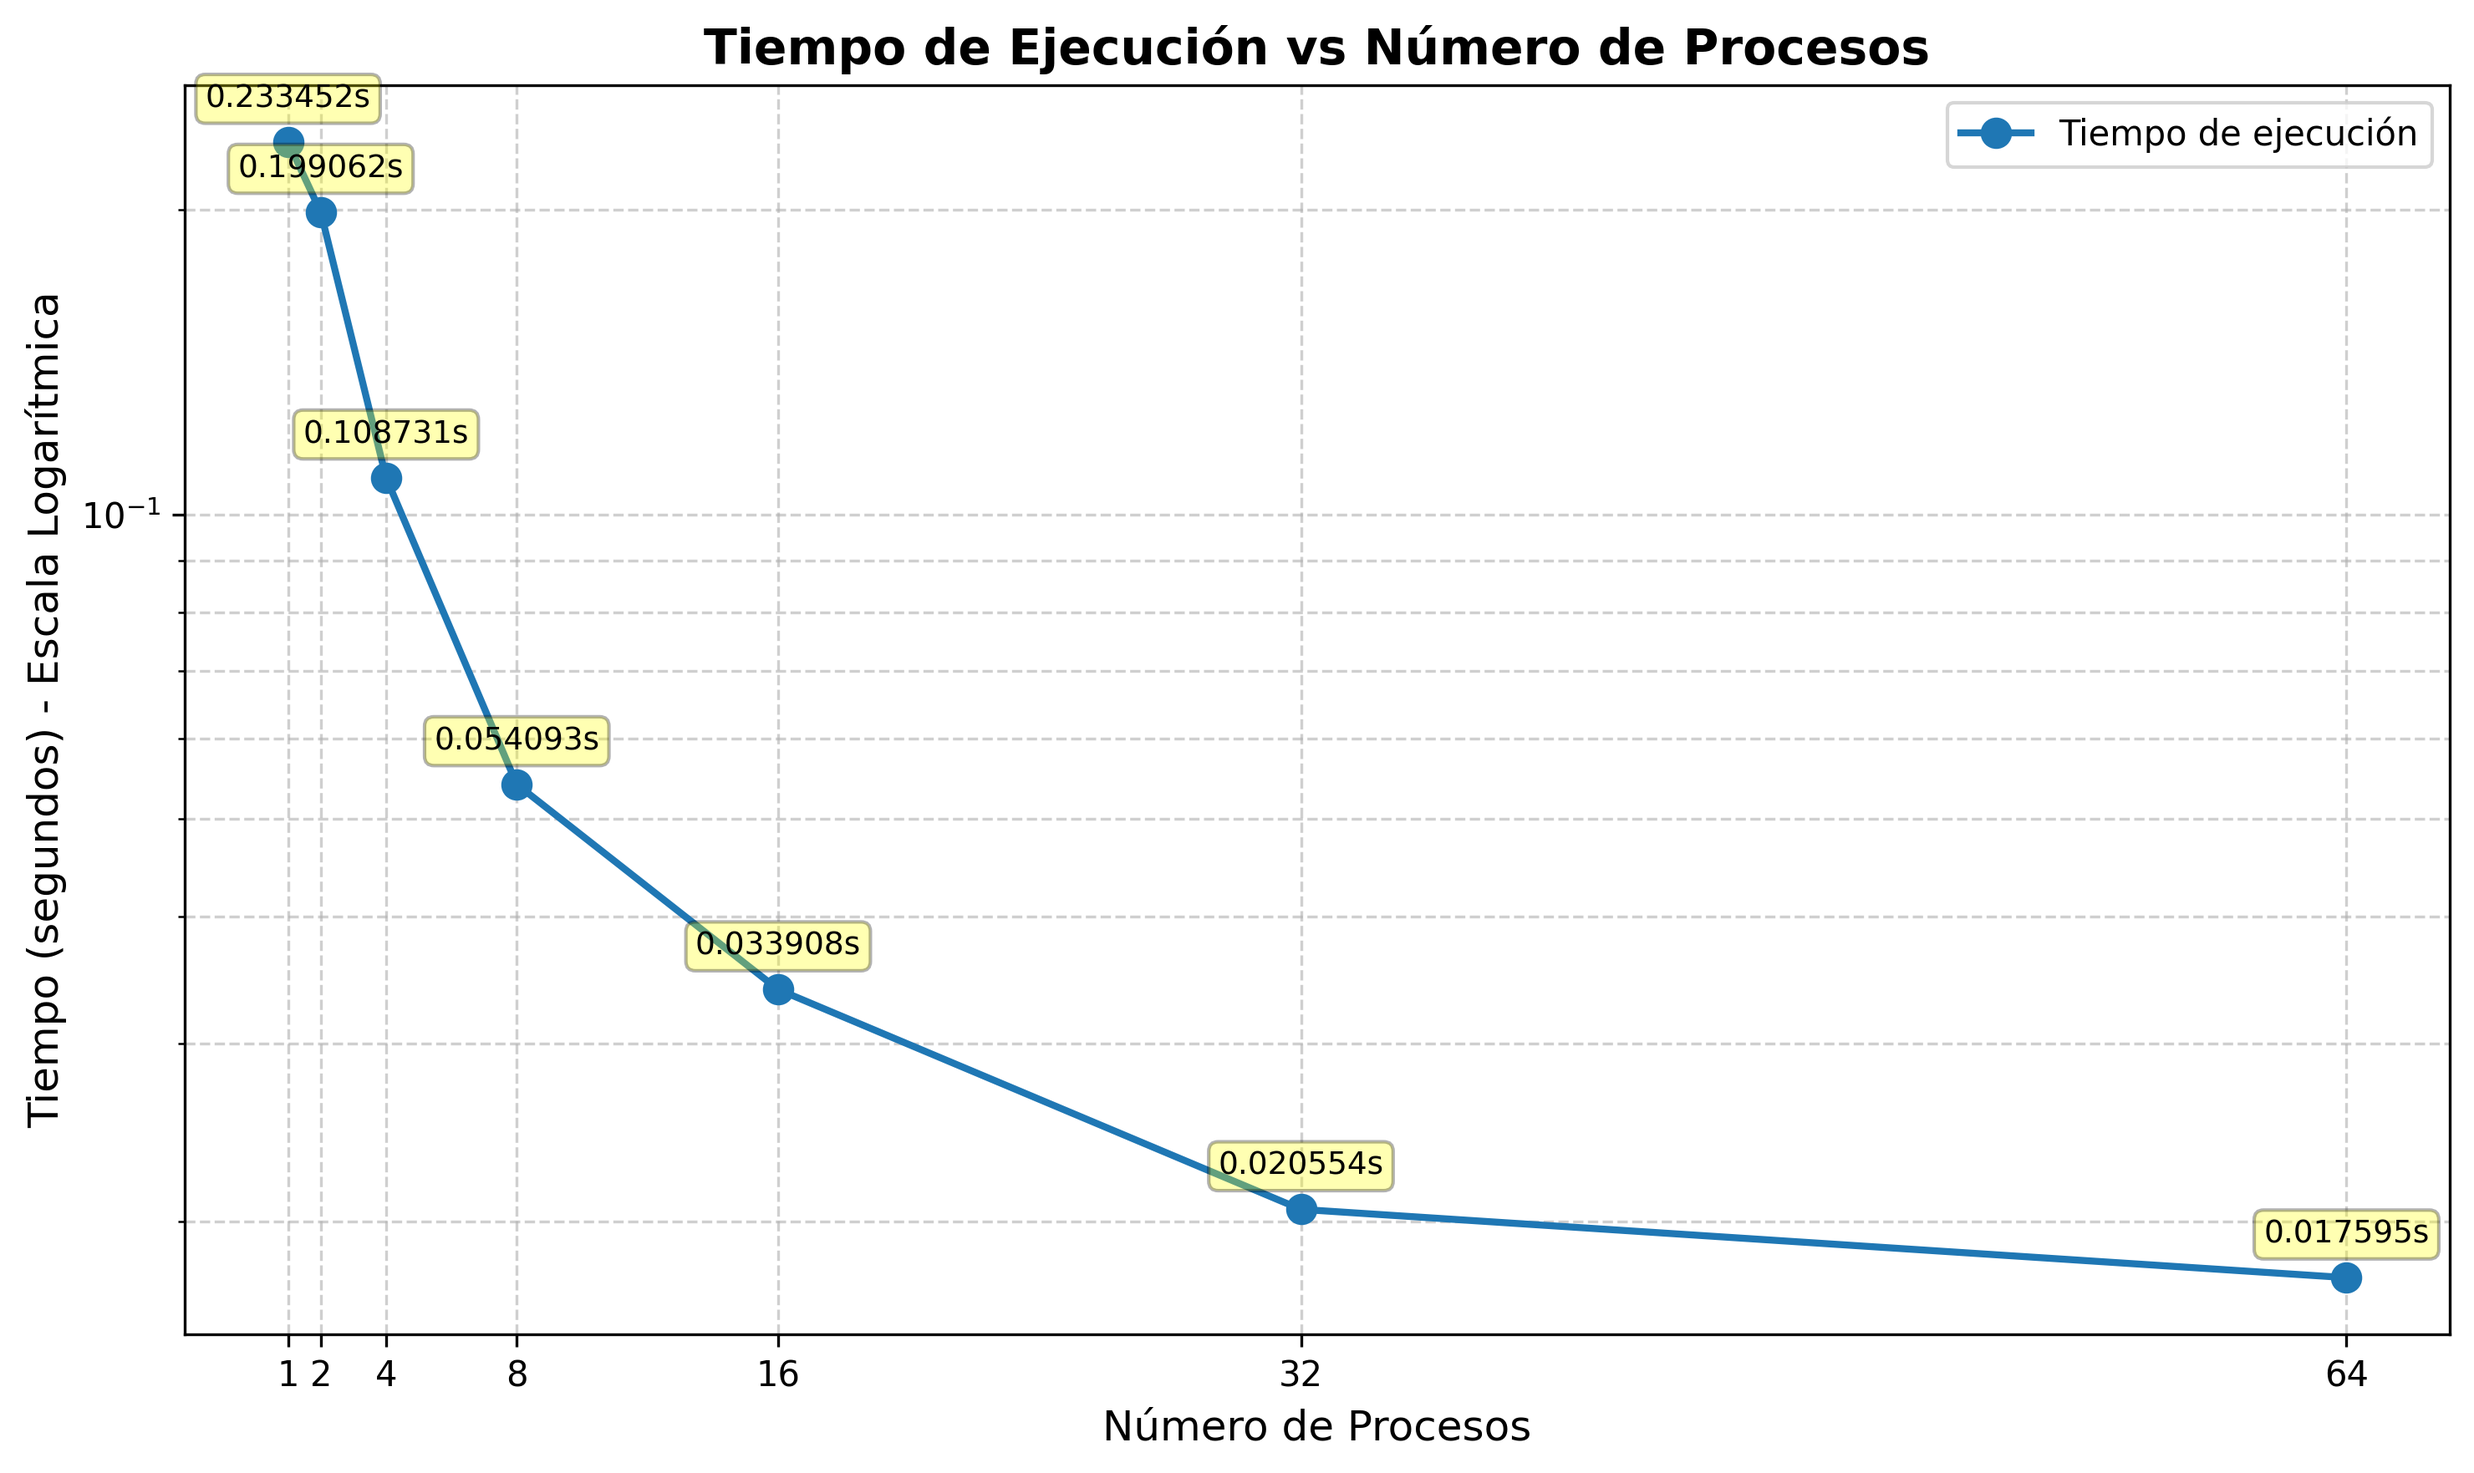
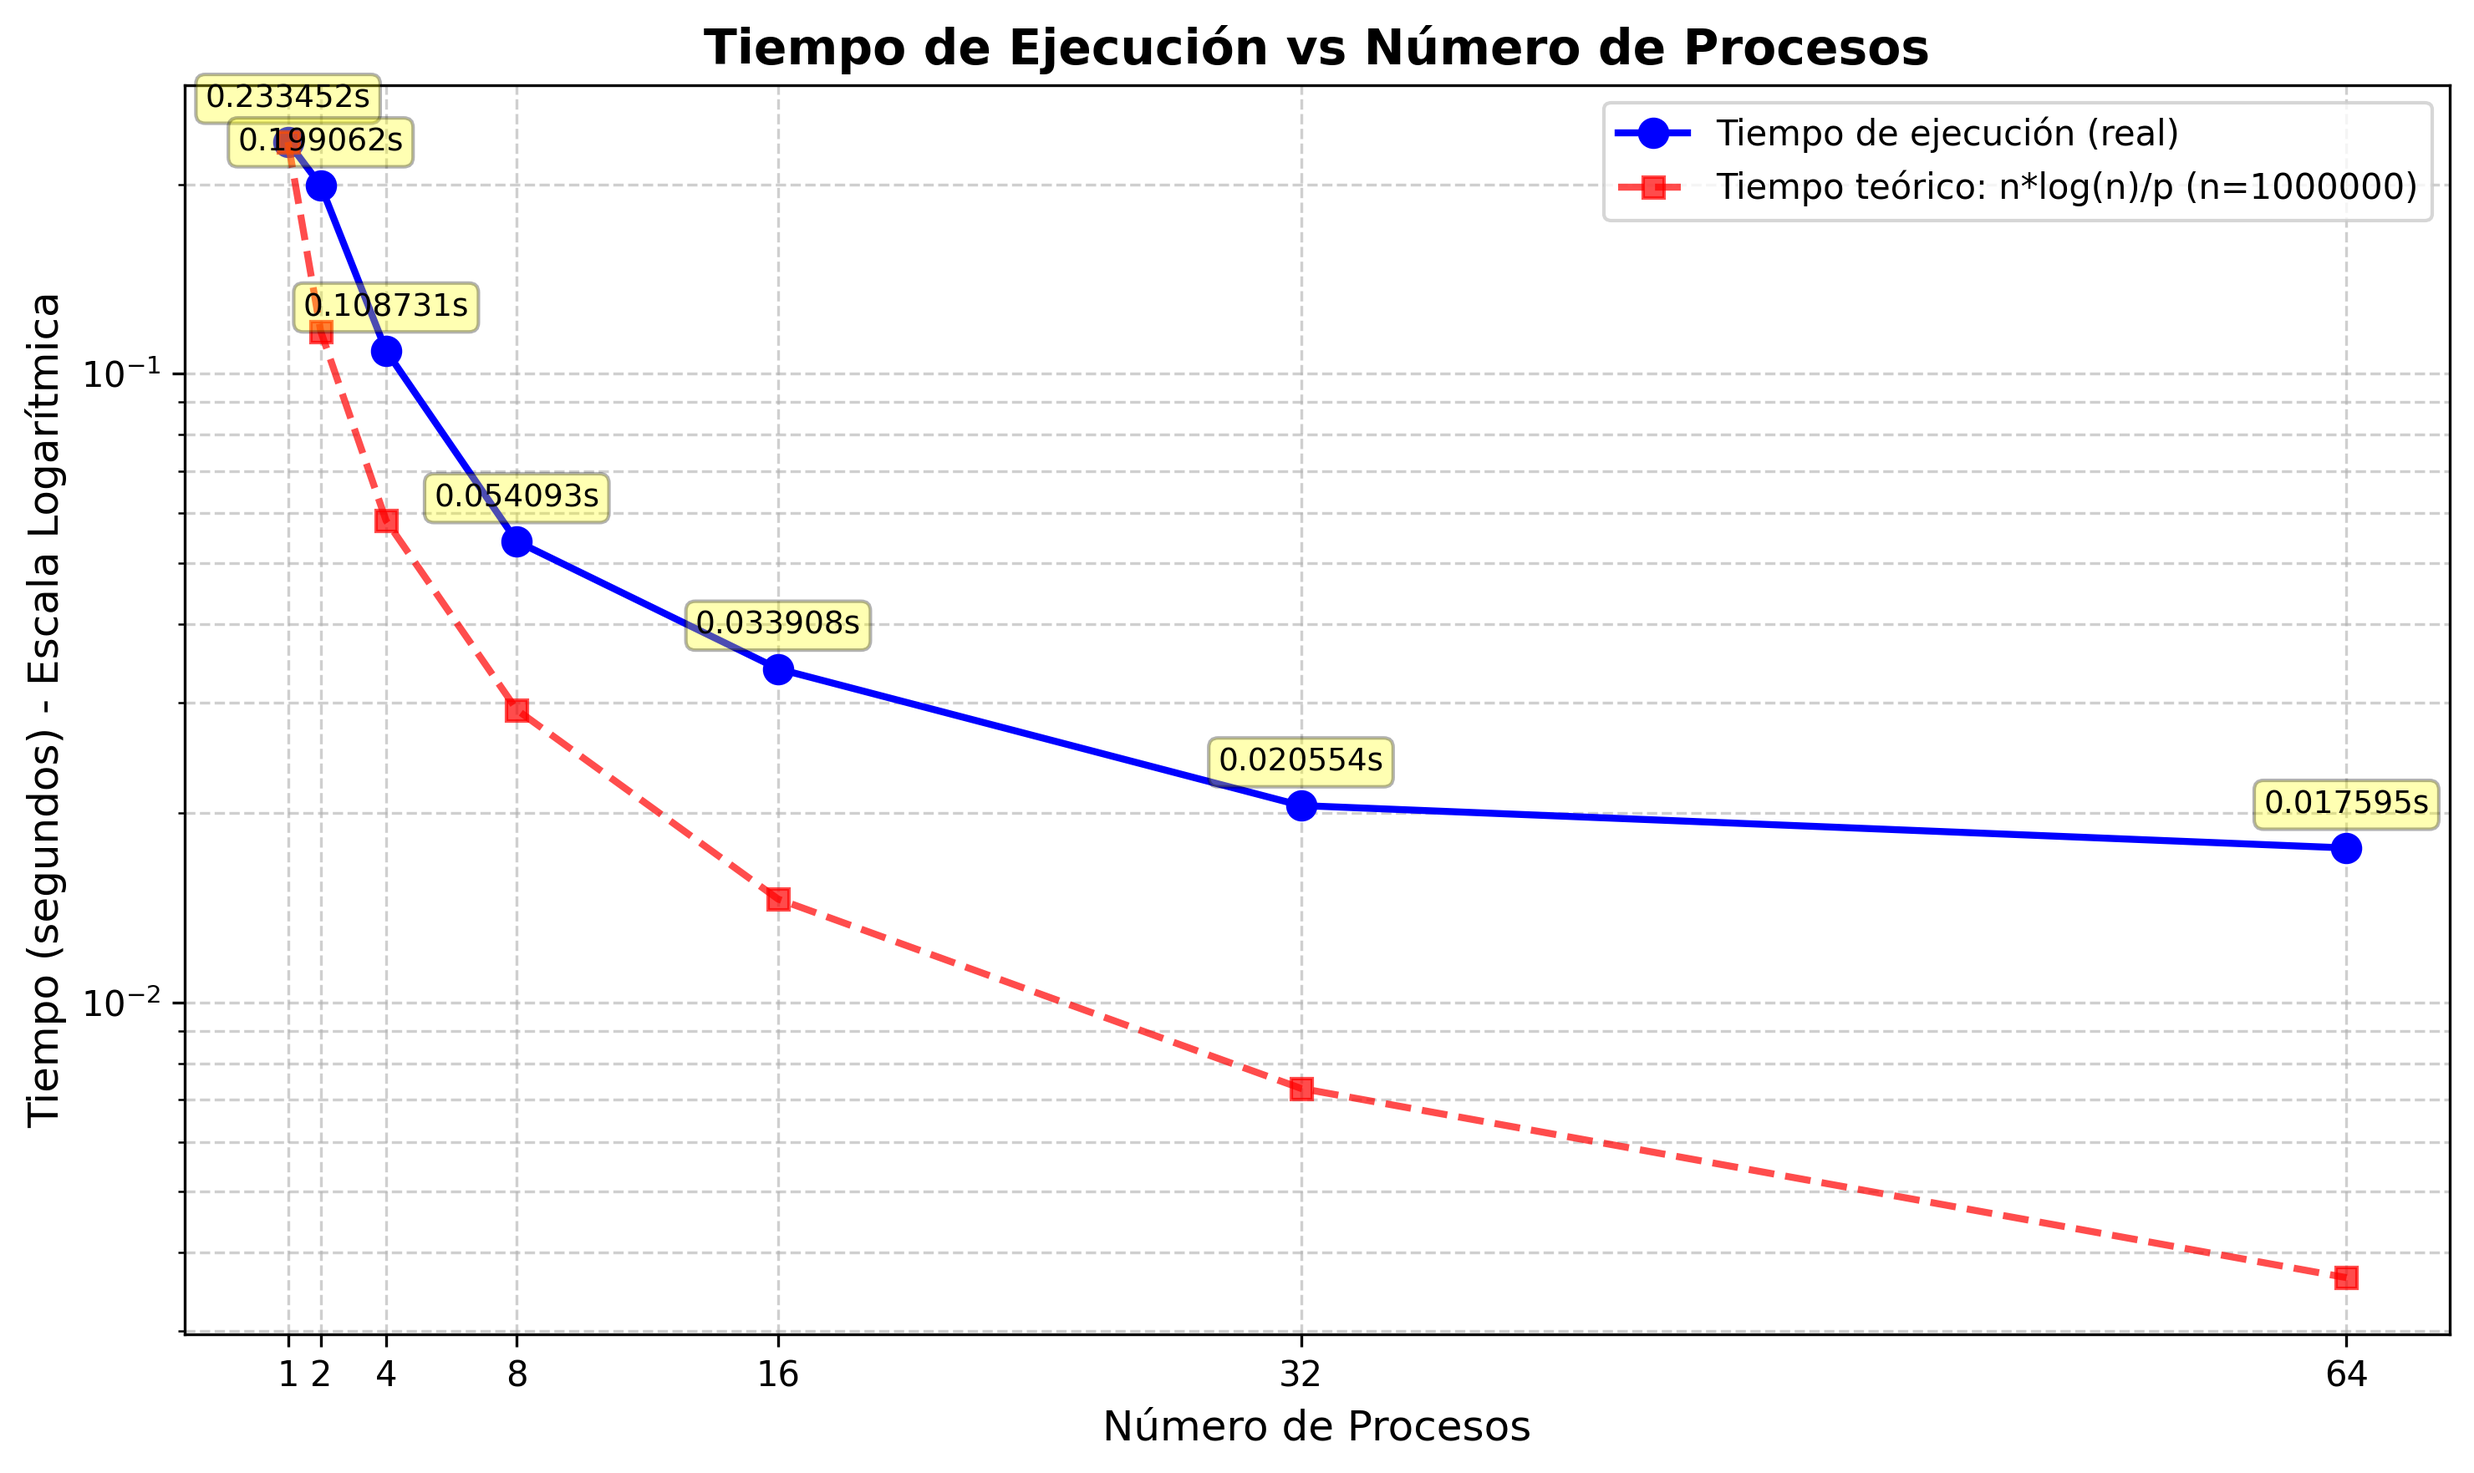
Parallel OMP

diff --git a/Parallel/W12/grafica.py b/Parallel/W12/grafica.py
@@ -8,9 +8,19 @@ n_procesos = [1, 2, 4, 8, 16, 32, 64]
 # REEMPLAZA ESTOS VALORES CON TUS TIEMPOS REALES
 tiempos = [0.233452, 0.199062, 0.108731, 0.05409252, 0.0339078, 0.0205543, 0.017595]
 
+# Calcular la función teórica: n*log(n)/p
+n = 1000000
+tiempos_teoricos = [(n * np.log(n)) / p for p in n_procesos]
+
+# Normalizar para que coincida mejor con los datos reales (ajustar factor de escala)
+factor_escala = tiempos[0] / tiempos_teoricos[0]
+tiempos_teoricos_normalizados = [t * factor_escala for t in tiempos_teoricos]
+
 # Crear la gráfica
 plt.figure(figsize=(10, 6))
-plt.plot(n_procesos, tiempos, marker='o', linewidth=2, markersize=8, label='Tiempo de ejecución')
+plt.plot(n_procesos, tiempos, marker='o', linewidth=2, markersize=8, label='Tiempo de ejecución (real)', color='blue')
+plt.plot(n_procesos, tiempos_teoricos_normalizados, marker='s', linewidth=2, markersize=6, 
+         linestyle='--', label=f'Tiempo teórico: n*log(n)/p (n={n})', color='red', alpha=0.7)
 
 # Configurar escala logarítmica en el eje y
 plt.yscale('log')
